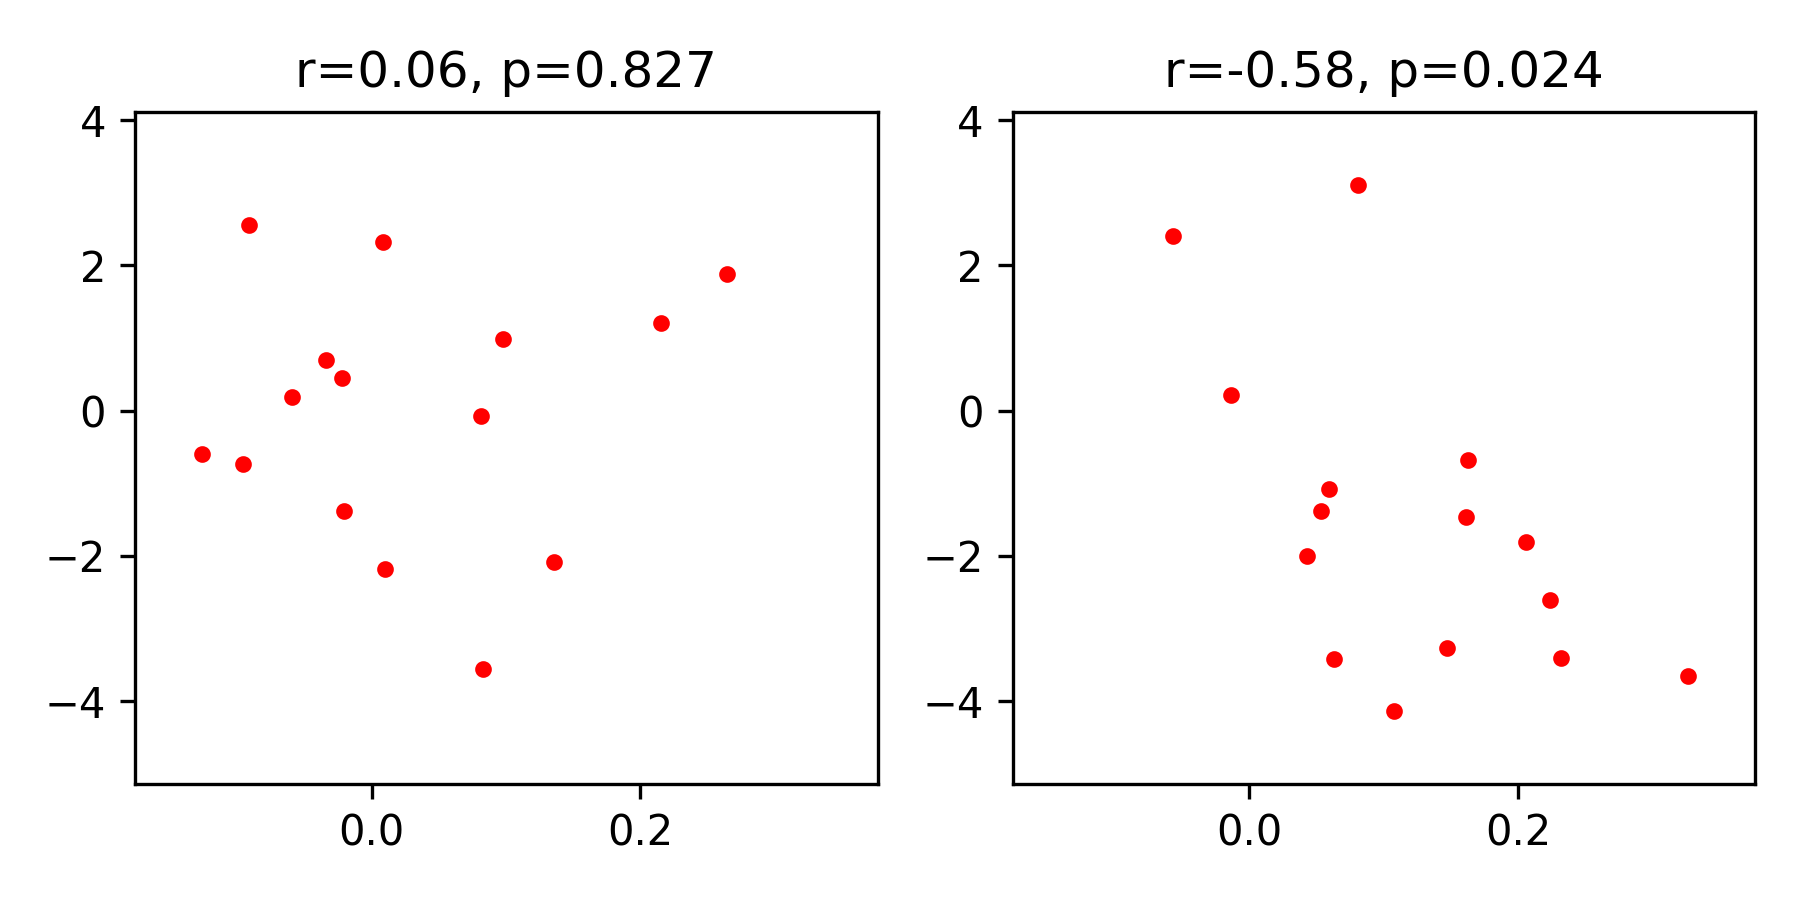
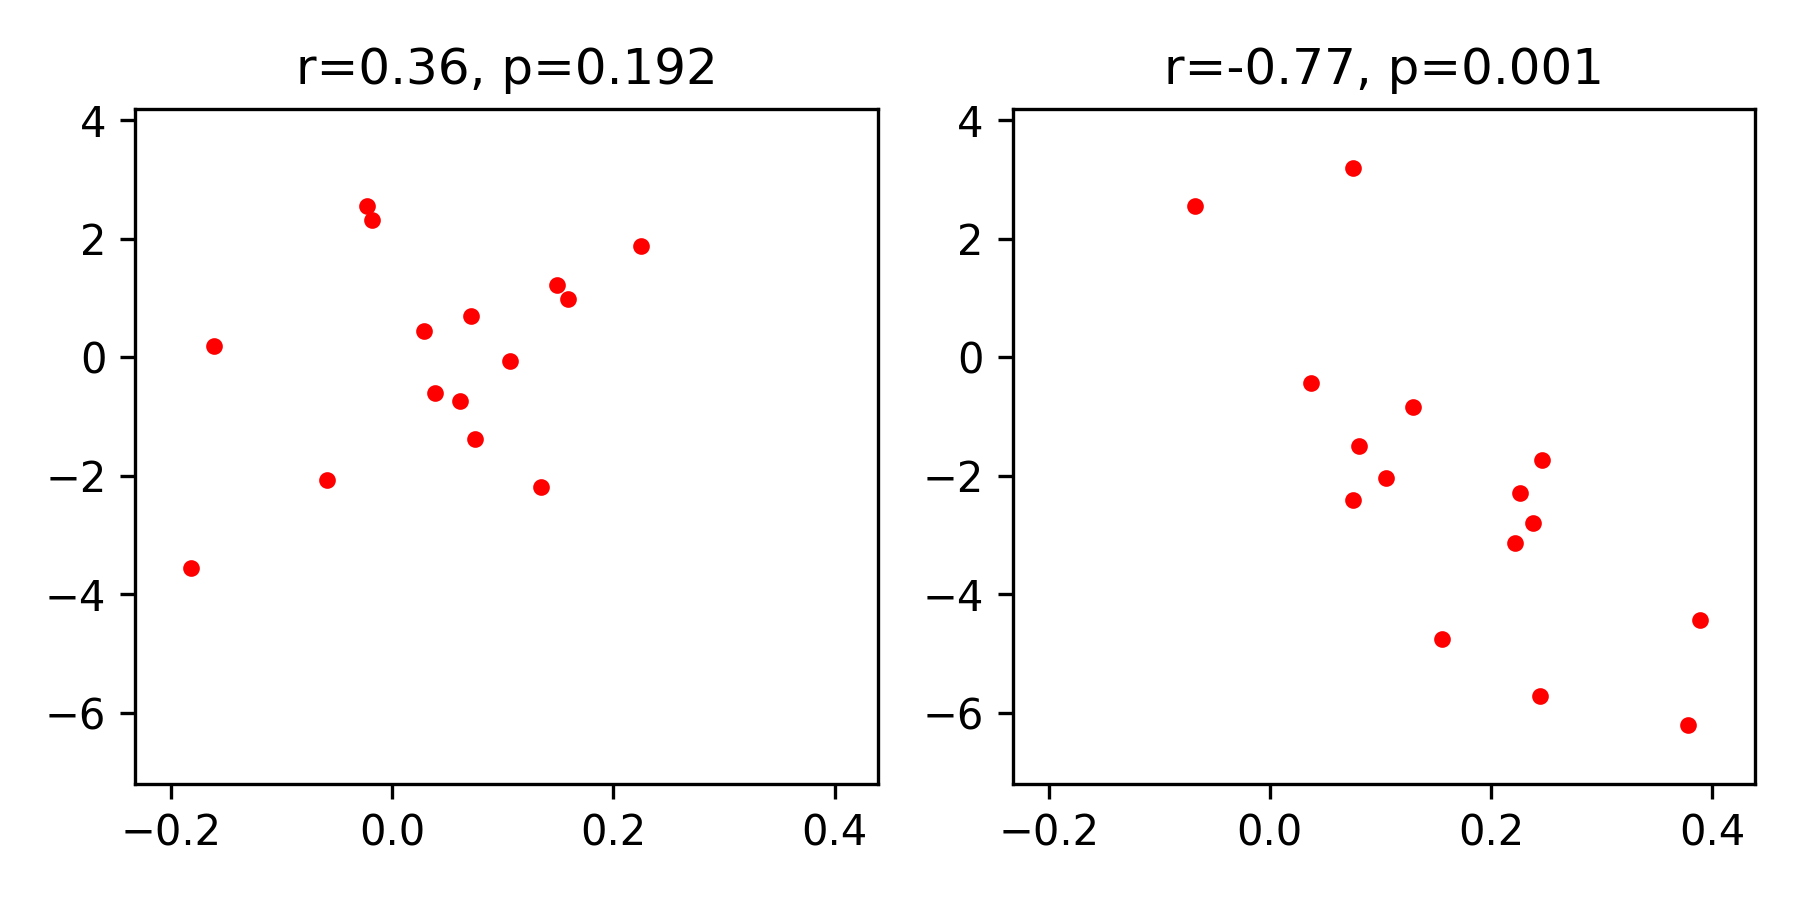
misc

diff --git a/test.py b/test.py
@@ -25,7 +25,7 @@ def clip_SEP(stim, sep, sample_rate=5000, pre_clip=0.010, post_clip=0.090):
 	return sep_clipped, n_stims
 
 def load_group(data_dir, participant_range):
-	group_df = pd.DataFrame(columns=["participant", "n_stims", "cp3_change", "snap_change", "behav_change"])
+	group_df = pd.DataFrame(columns=["participant", "n_stims", "cp3_pre", "cp3_post", "cp3_change", "snap_pre", "snap_post", "snap_change", "behav_pre", "behav_post", "behav_change"])
 	print(f"loading {len(participant_range)} participants from {data_dir}")
 	for i_participant in tqdm(participant_range, unit="participant"):
 		fname_prefix = data_dir + "P" + str(i_participant) + "_"
@@ -42,12 +42,18 @@ def load_group(data_dir, participant_range):
 		cp3_post_c_m = np.mean(cp3_post_c,0)
 		snap_pre_c_m = np.mean(snap_pre_c,0)
 		snap_post_c_m = np.mean(snap_post_c,0)
-		cp3_change = (np.max(cp3_post_c_m) - np.min(cp3_post_c_m)) - (np.max(cp3_pre_c_m) - np.min(cp3_pre_c_m))
-		snap_change = (np.max(snap_post_c_m) - np.min(snap_post_c_m)) - (np.max(snap_pre_c_m) - np.min(snap_pre_c_m))
+		cp3_pre_pp = (np.max(cp3_pre_c_m) - np.min(cp3_pre_c_m))
+		cp3_post_pp = (np.max(cp3_post_c_m) - np.min(cp3_post_c_m))
+		cp3_change = cp3_post_pp - cp3_pre_pp
+		snap_pre_pp = (np.max(snap_pre_c_m) - np.min(snap_pre_c_m))
+		snap_post_pp = (np.max(snap_post_c_m) - np.min(snap_post_c_m))
+		snap_change = snap_post_pp - snap_pre_pp
 		beh_pre  = np.genfromtxt(fname_prefix + "sequence_times_pre.csv", delimiter=",")
+		beh_pre = np.mean(np.mean(beh_pre,0))
 		beh_post = np.genfromtxt(fname_prefix + "sequence_times_post.csv", delimiter=",")
-		beh_change = np.mean(np.mean(beh_post,0) - np.mean(beh_pre,0))
-		group_df.loc[i_participant] = [i_participant, n_stims, cp3_change, snap_change, beh_change]
+		beh_post = np.mean(np.mean(beh_post,0))
+		beh_change = beh_post - beh_pre
+		group_df.loc[i_participant] = [i_participant, n_stims, cp3_pre_pp, cp3_post_pp, cp3_change, snap_pre_pp, snap_post_pp, snap_change, beh_pre, beh_post, beh_change]
 	return group_df
 
 def plot_plus_stats(df, colname):
@@ -64,6 +70,7 @@ def plot_plus_stats(df, colname):
 	plt.tight_layout()
 	plt.show()
 	result = stats.ttest_1samp(df[colname][df.group=="control"], 0)
+	print(f"STATS: {colname}")
 	print(f"control vs zero: t({result.df})={result.statistic:.5f}, p={result.pvalue:.5f}")
 	result = stats.ttest_1samp(df[colname][df.group=="learning"], 0)
 	print(f"learning vs zero: t({result.df})={result.statistic:.5f}, p={result.pvalue:.5f}")
@@ -99,7 +106,7 @@ cp3_pre_c, n_stims   = clip_SEP(stim, cp3_pre)
 cp3_post_c, n_stims  = clip_SEP(stim, cp3_post)
 cp3_pre_c_m = np.mean(cp3_pre_c,0)
 cp3_post_c_m = np.mean(cp3_post_c,0)
-t = (np.arange(np.shape(cp3_pre_c_m)[0]) / 5000) - 0.020
+t = (np.arange(np.shape(cp3_pre_c_m)[0]) / 5000) - 0.010
 #
 plt.figure(figsize=(10,3))
 plt.plot(t, cp3_post_c_m,'r-',label="POST")

diff --git a/create_dataset.py b/create_dataset.py
@@ -37,14 +37,14 @@ def create_SEP(stim, sr=5000, sep_peak=0.020, sep_period=0.010, sep_amplitude = 
     SEP = np.zeros((n,))
     t = np.linspace(0,sep_period,math.ceil(sep_period*sr))
     sep_single = -np.sin(2*math.pi*t*(1/sep_period)) * np.hanning(math.ceil(sep_period*sr)) * sep_amplitude
-    i_offset = i_stim[i] + i_peak + int(i_period/2)
+    i_offset = i_stim[i] + i_peak - int(i_period/4)
     windows = []
     while (((i_offset + i_period) < n) and (i < len(i_stim)-1)):
         i1,i2 = i_offset, i_offset + i_period
         windows.append((i1,i2))
         SEP[i1:i2] = sep_single
         i = i + 1
-        i_offset = i_stim[i] + i_peak + int(i_period/2)
+        i_offset = i_stim[i] + i_peak - int(i_period/4)
     SEP += np.random.randn(len(SEP)) * noise_sd
     return SEP
 
